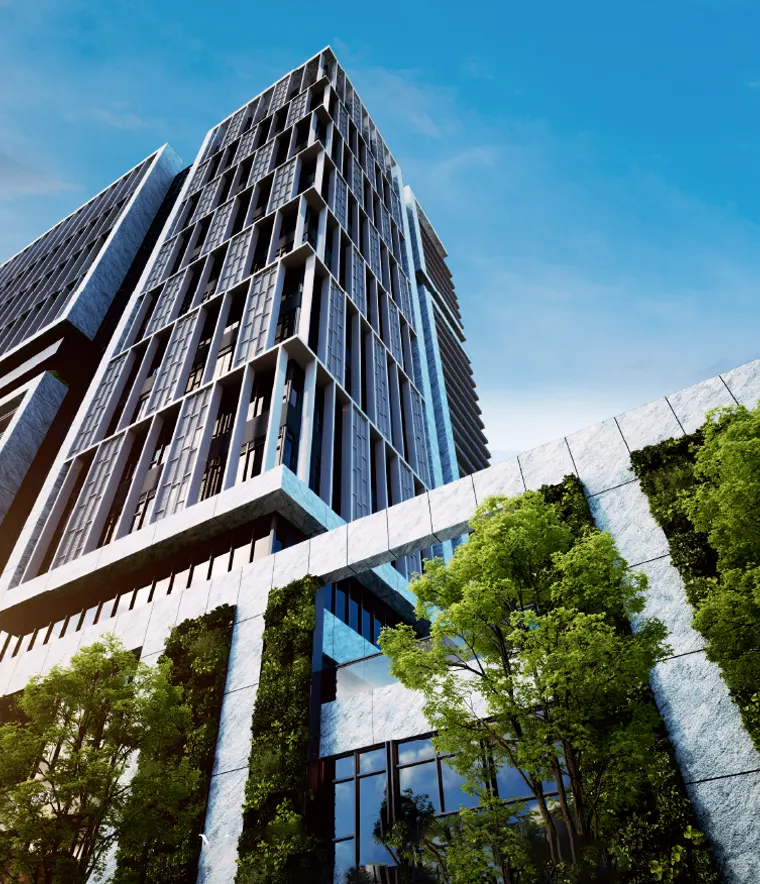
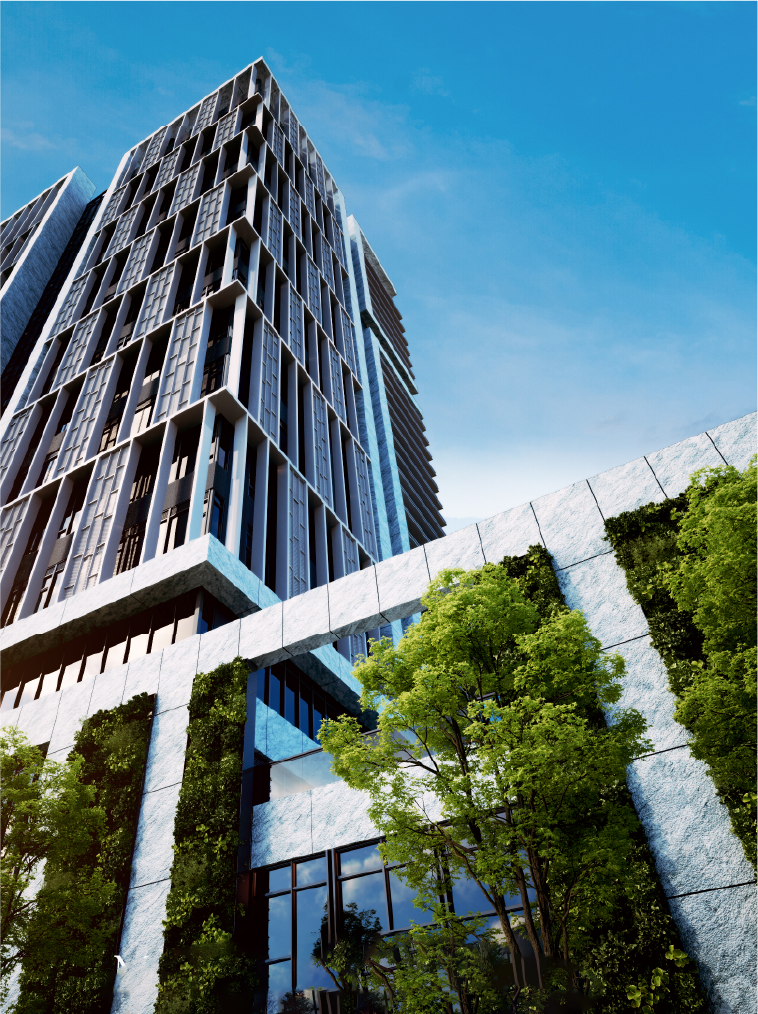
no message

diff --git a/css/slides.css b/css/slides.css
@@ -20,6 +20,7 @@
   height: 100%;
   object-fit: cover;
 }
+
 .fade-slide .text_card {
   position: absolute;
   bottom: 0;
@@ -29,31 +30,22 @@
   padding: 5%;
   background-color: rgba(0, 0, 0, 0.466);
 }
-/* card2 第二種樣式 */
-.fade-slide .text_card.text_card2 {
-  width: 90%;
-  max-width: 800px;
-  background-color: #1f2a66;
-  display: grid;
-  grid-template-columns: 3fr 7fr;
-  gap: 20px;
-  justify-content: center;
-  align-items: center;
-}
-.fade-slide .text_card.text_card2 img {
-  width: 100%;
-  height: auto;
-}
+
+
+
 /* text_card 基本樣式：開始時透明 + 往下 */
 .text_card img,
 .text_card p {
   opacity: 0;
   transform: translateY(30px);
   transition: opacity 0.6s ease, transform 0.6s ease;
-  transition-delay: 0.5s; /* 稍微延遲，可自行調整 */
+  transition-delay: 0.5s;
+  /* 稍微延遲，可自行調整 */
 }
+
 .text_card p {
-  transition-delay: 0.7s; /* 稍微延遲，可自行調整 */
+  transition-delay: 0.7s;
+  /* 稍微延遲，可自行調整 */
 }
 
 /* active 的 slide 文字要淡入 + 往上歸位 */
@@ -72,6 +64,7 @@
 .fade-slider:hover .fade-next {
   opacity: 1;
 }
+
 .fade-prev,
 .fade-next {
   position: absolute;
@@ -88,6 +81,7 @@
   transition: 0.3s all;
   opacity: 0;
 }
+
 .fade-prev:hover,
 .fade-next:hover {
   background: rgba(0, 0, 0, 0.5);
@@ -96,6 +90,7 @@
 .fade-prev {
   left: 10px;
 }
+
 .fade-next {
   right: 10px;
 }
@@ -111,4 +106,125 @@
 .fade-slide.active {
   opacity: 1;
   z-index: 2;
+}
+
+
+/* s7 輪播的第二種樣式 */
+.fade-slide .text_card.text_card2 {
+  position: relative;
+  width: 100%;
+  max-width: 1200px;
+  background-color: #1f2a66;
+  display: grid;
+  grid-template-columns: 2fr 7fr;
+  gap: 20px;
+  justify-content: center;
+  align-items: center;
+}
+
+.fade-slide .text_card.text_card2 img {
+  width: 100%;
+  height: auto;
+}
+
+/* s7第一張圖沒有字，所以要100% */
+.sec7 .right_box .fade-slide:first-child>img {
+  height: 100%;
+}
+
+.sec7 .right_box .fade-slide>img {
+  height: 88%;
+}
+
+.sec7 .right_box .fade-slide .text_card.text_card2 {
+  height: 12%;
+}
+
+@media (width<1024px) {
+  .sec7 .right_box .fade-slide>img {
+    height: 80%;
+  }
+
+  .sec7 .right_box .fade-slide .text_card.text_card2 {
+    height: 20%;
+  }
+
+}
+
+@media (width<769px) {
+  .sec7 .right_box .fade-slide>img {
+    height: 90%;
+  }
+
+  .sec7 .right_box .fade-slide .text_card.text_card2 {
+    height: 10%;
+  }
+
+}
+
+@media (width<550px) {
+  .sec7 .right_box .fade-slide>img {
+    height: 80%;
+  }
+
+  .sec7 .right_box .fade-slide .text_card.text_card2 {
+    height: 20%;
+  }
+}
+
+
+/* s8建案名稱 */
+.sec8 .fade-slide .case_name {
+  position: absolute;
+  padding: 5px 10px;
+  padding-left: 20px;
+  font-size: 15px;
+  background-color: #000000a8;
+  right: 0;
+  letter-spacing: 1px;
+  font-weight: 300;
+  color: #fff;
+  opacity: 0;
+  transform: translateY(30px);
+  transition: opacity 0.6s ease, transform 0.6s ease;
+  transition-delay: 0.5s;
+  clip-path: polygon(0 1%, 100% 1%, 100% 50%, 100% 100%, 0 100%, 10% 50%);
+}
+
+.sec8 .fade-slide .case_name.top_name {
+  top: 44%;
+}
+
+@media (width<1025px) {
+  .sec8 .fade-slide .case_name.top_name {
+    top: 42%;
+  }
+}
+
+.sec8 .fade-slide .case_name.bot_name {
+  bottom: 15px;
+}
+
+/* s9建案名稱 */
+.sec9 .fade-slide .case_name {
+  position: absolute;
+  padding: 8px 12px;
+  padding-left: 25px;
+  background-color: #000000a8;
+  right: 0;
+  bottom: 20px;
+  letter-spacing: 1px;
+  font-weight: 300;
+  color: #fff;
+  opacity: 0;
+  transform: translateY(30px);
+  transition: opacity 0.6s ease, transform 0.6s ease;
+  transition-delay: 0.5s;
+  clip-path: polygon(0 1%, 100% 1%, 100% 50%, 100% 100%, 0 100%, 10% 50%);
+}
+
+.sec8 .fade-slide.active .case_name,
+.sec9 .fade-slide.active .case_name {
+  opacity: 1;
+  transform: translateY(0);
 }

diff --git a/sections/sec9.html b/sections/sec9.html
@@ -5,15 +5,19 @@
       <div class="fade-slides">
         <div class="fade-slide active">
           <img loading="lazy" src="/images/s9-1.webp" alt="40年/廠辦巨擘，10萬坪銷售傳奇" />
+          <span class="case_name">台灣科學園區</span>
         </div>
         <div class="fade-slide">
           <img loading="lazy" src="/images/s9-2.webp" alt="40年/廠辦巨擘，10萬坪銷售傳奇" />
+          <span class="case_name">台灣科技廣場</span>
         </div>
         <div class="fade-slide">
           <img loading="lazy" src="/images/s9-3.webp" alt="40年/廠辦巨擘，10萬坪銷售傳奇" />
+          <span class="case_name">台灣科技公園</span>
         </div>
         <div class="fade-slide">
           <img loading="lazy" src="/images/s9-4.webp" alt="40年/廠辦巨擘，10萬坪銷售傳奇" />
+          <span class="case_name">台灣智匯總部</span>
         </div>
       </div>
 
@@ -38,15 +42,19 @@
       <div class="fade-slides">
         <div class="fade-slide active">
           <img loading="lazy" src="/images/s9-mob-1.webp" alt="40年/廠辦巨擘，10萬坪銷售傳奇" />
+           <span class="case_name">台灣科學園區</span>
         </div>
         <div class="fade-slide">
           <img loading="lazy" src="/images/s9-mob-2.webp" alt="40年/廠辦巨擘，10萬坪銷售傳奇" />
+           <span class="case_name">台灣科技廣場</span>
         </div>
         <div class="fade-slide">
           <img loading="lazy" src="/images/s9-mob-3.webp" alt="40年/廠辦巨擘，10萬坪銷售傳奇" />
+           <span class="case_name">台灣科技公園</span>
         </div>
         <div class="fade-slide">
           <img loading="lazy" src="/images/s9-mob-4.webp" alt="40年/廠辦巨擘，10萬坪銷售傳奇" />
+           <span class="case_name">台灣智匯總部</span>
         </div>
       </div>
 

diff --git a/sections/sec6.html b/sections/sec6.html
@@ -28,7 +28,8 @@
               </p>
             </div>
           </div>
-          <div class="fade-slide">
+          <!-- 待更新 -->
+          <!-- <div class="fade-slide">
             <img
               loading="lazy"
               src="/images/s6-3.webp"
@@ -63,7 +64,7 @@
                 8F國際會議室，是您與世界對話的起點，頂級會議設備與沉靜格局，讓每一次交流都聚焦高效、卓有成效。
               </p>
             </div>
-          </div>
+          </div> -->
         </div>
 
         <button class="fade-prev">‹</button>
@@ -137,7 +138,8 @@
           </div>
         </div>
 
-        <div class="fade-slide">
+        <!-- 待更新 -->
+        <!-- <div class="fade-slide">
           <img
             loading="lazy"
             src="/images/s6-mob-3.webp"
@@ -176,7 +178,8 @@
             </p>
             <div class="decorate"></div>
           </div>
-        </div>
+        </div> -->
+
       </div>
 
       <button class="fade-prev">‹</button>

diff --git a/sections/sec8.html b/sections/sec8.html
@@ -5,12 +5,18 @@
         <div class="fade-slides">
           <div class="fade-slide active">
             <img loading="lazy" src="/images/s8-1.webp" alt="專業團隊協作，共築總部地標" />
+            <span class="top_name case_name">國揚前瞻科技大樓</span>
+            <span class="bot_name case_name">大隱海納川</span>
           </div>
           <div class="fade-slide">
             <img loading="lazy" src="/images/s8-3.webp" alt="專業團隊協作，共築總部地標" />
+            <span class="top_name case_name">雅朵花園</span>
+            <span class="bot_name case_name">宜蘭立信大廳</span>
           </div>
           <div class="fade-slide">
             <img loading="lazy" src="/images/s8-5.webp" alt="專業團隊協作，共築總部地標" />
+            <span class="top_name case_name">高雄圖書館</span>
+            <span class="bot_name case_name">花博美術館</span>
           </div>
         </div>
 

diff --git a/css/style.css b/css/style.css
@@ -381,13 +381,14 @@ img {
 .sec7 .right_box {
   width: 45%;
   margin: 50px 0;
-  aspect-ratio: 190/221;
+  aspect-ratio: 19/25;
 }
 
-/* .sec7 .right_box img {
-  height: 100%;
+.sec7 .right_box img {
+  width: 100%;
+  height: auto;
   object-fit: cover;
-} */
+}
 
 .sec8 .web {
   width: 100%;

diff --git a/css/mob-style.css b/css/mob-style.css
@@ -264,7 +264,10 @@
   .sec7 .right_box {
     width: 100%;
     margin: 0;
+    aspect-ratio: 190/285;
   }
+
+
 
   .sec7 .right_box .text_card p {
     font-size: 14px;
